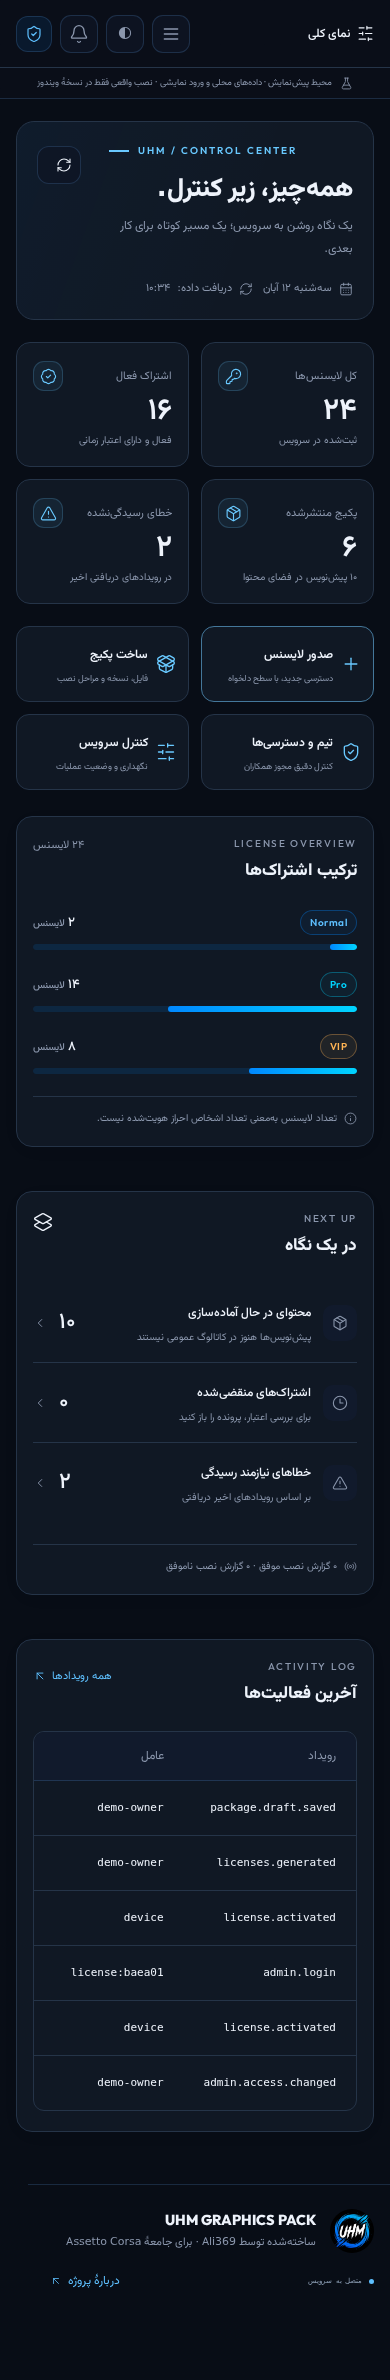
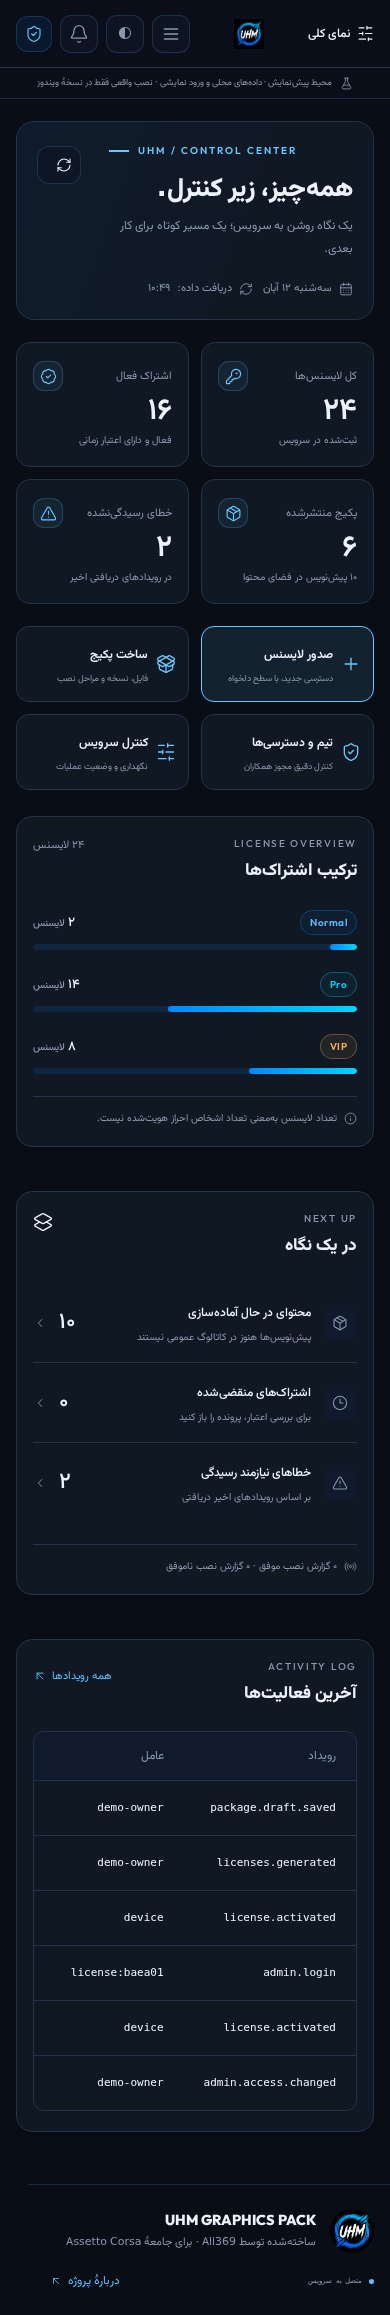
fix: preserve mobile console home link and verify static Pages routing

diff --git a/apps/web/src/main.ts b/apps/web/src/main.ts
@@ -146,7 +146,7 @@ function adminShell(nav: string[][]) {
     )
     .join(
       '',
-    )}</nav><div class="sidebar-bottom"><div class="workspace-identity">${icon('shield-check')}<div><b data-admin-role>مدیریت</b><small>دسترسی بر اساس مجوز حساب</small></div></div><button class="nav-item ${page === 'settings' ? 'active' : ''}" data-nav="settings">${icon('settings-2')}تنظیمات</button><button class="nav-item" id="switch-mode">${icon('arrow-up-right')}بازگشت به لانچر</button><div class="sidebar-version"><span>UHM PLATFORM</span><code>v0.1.0</code></div></div></aside><div class="workspace"><header class="topbar"><div class="breadcrumbs">${icon('sliders-horizontal')}<span>اتاق کنترل</span>${icon('chevron-left')}<strong>${esc(nav.find((n) => n[0] === page)?.[2] || 'تنظیمات')}</strong></div><div class="topbar-actions"><button class="icon-button mobile-menu" id="mobile-menu" aria-label="منوی بخشها" aria-expanded="false">${icon('menu')}</button><button class="icon-button" id="theme" aria-label="تغییر تم">◐</button><button class="icon-button" id="notifications" aria-label="تازههای انتشار">${icon('bell')}</button><button class="profile" id="profile" aria-label="خروج از حساب مدیریت"><span class="avatar">${icon('shield-check')}</span><span><b data-admin-role>مدیریت</b><small lang="en">UHM WORKSPACE</small></span>${icon('chevron-down')}</button></div></header>${demoStrip()}${serviceMessage ? `<div class="console-notice">${esc(serviceMessage)}</div>` : ''}<main id="content" tabindex="-1"></main>${footerMarkup()}</div></div><div id="toasts" aria-live="polite"></div>`;
+    )}</nav><div class="sidebar-bottom"><div class="workspace-identity">${icon('shield-check')}<div><b data-admin-role>مدیریت</b><small>دسترسی بر اساس مجوز حساب</small></div></div><button class="nav-item ${page === 'settings' ? 'active' : ''}" data-nav="settings">${icon('settings-2')}تنظیمات</button><button class="nav-item" id="switch-mode">${icon('arrow-up-right')}بازگشت به لانچر</button><div class="sidebar-version"><span>UHM PLATFORM</span><code>v0.1.0</code></div></div></aside><div class="workspace"><header class="topbar"><div class="breadcrumbs">${icon('sliders-horizontal')}<span>اتاق کنترل</span>${icon('chevron-left')}<strong>${esc(nav.find((n) => n[0] === page)?.[2] || 'تنظیمات')}</strong></div><div class="mobile-console-brand">${brandMarkup()}</div><div class="topbar-actions"><button class="icon-button mobile-menu" id="mobile-menu" aria-label="منوی بخشها" aria-expanded="false">${icon('menu')}</button><button class="icon-button" id="theme" aria-label="تغییر تم">◐</button><button class="icon-button" id="notifications" aria-label="تازههای انتشار">${icon('bell')}</button><button class="profile" id="profile" aria-label="خروج از حساب مدیریت"><span class="avatar">${icon('shield-check')}</span><span><b data-admin-role>مدیریت</b><small lang="en">UHM WORKSPACE</small></span>${icon('chevron-down')}</button></div></header>${demoStrip()}${serviceMessage ? `<div class="console-notice">${esc(serviceMessage)}</div>` : ''}<main id="content" tabindex="-1"></main>${footerMarkup()}</div></div><div id="toasts" aria-live="polite"></div>`;
 }
 function navigate(next: string) {
   page = next;

diff --git a/tests/pages/pages.spec.ts b/tests/pages/pages.spec.ts
@@ -52,7 +52,9 @@ test('sandbox activation and admin actions survive reload without a real backend
   await expect(page.locator('#codes')).toHaveValue(/UHM-/);
   await page.getByRole('button', { name: 'بستن', exact: true }).click();
   await page.reload();
-  await expect(page.getByRole('heading', { name: 'همهچیز، زیر کنترل.' })).toBeVisible();
+  await expect(page).toHaveURL(/\/App\/#\/admin\/licenses$/);
+  await expect(page.locator('#license-table')).toBeVisible();
+  await expect(page.getByRole('button', { name: 'تولید لایسنس', exact: true })).toBeVisible();
   await page.getByRole('button', { name: 'بازگشت به لانچر', exact: true }).click();
   await expect(page).toHaveURL(/\/App\/$/);
   await expect(page.getByRole('heading', { name: /گرافیک استو را/ })).toBeVisible();

diff --git a/apps/web/src/console-design.css b/apps/web/src/console-design.css
@@ -885,3 +885,28 @@ button:disabled {
   flex-wrap: wrap;
   min-width: 0;
 }
+.mobile-console-brand {
+  display: none;
+}
+@media (max-width: 700px) {
+  .mobile-console-brand {
+    display: block;
+  }
+  .admin-shell .mobile-console-brand .brand {
+    display: flex;
+    align-items: center;
+    padding: 0;
+    margin: 0;
+    font-size: 0;
+  }
+  .mobile-console-brand .brand img {
+    width: 30px;
+    height: 30px;
+  }
+  .mobile-console-brand small {
+    display: none;
+  }
+  .admin-shell .workspace {
+    padding-bottom: 0;
+  }
+}

diff --git a/docs/design-debugging-2026-11-03-fa.md b/docs/design-debugging-2026-11-03-fa.md
@@ -34,6 +34,7 @@
 | ناشر بدون content.write دکمه انتشار فعال نداشت — AUD-02 | عملیات validate/test/publish/archive بیرون fieldset دادههای غیرفعال قرار گرفتند. ذخیره بدون permission اصلاً نمایش داده نمیشود. تست با ورود واقعی لایسنس محلی، دکمه فعال و validate موفق را تأیید میکند. |
 | content.write بدون content.read مسیر ساخت پکیج نداشت — AUD-03 | navigation برای مجوز نوشتن باز میشود؛ فهرست قبلی همچنان پنهان میماند و توضیح صریح نشان داده میشود. مجوز read بهطور ضمنی اعطا نشد و API سرور دستنخورده است. |
 | فایلهای پنهانشده با مجوز، به اشتباه صفر نمایش داده میشدند | در جدول از عبارت «محفوظ» استفاده میشود؛ فرم فقطخواندنی نیز محدودیت اطلاعات را توضیح میدهد. |
+| لینک لوگو در header موبایل Owner وجود نداشت | هنگام تست build استاتیک پیدا شد؛ لوگوی قابل کلیک در header موبایل اضافه شد و با لینک اصلی زیر /App/ تست شد. |
 | صفحه داخلی بعد از refresh/Back از دست میرفت | routeهای hash برای صفحات مجاز اضافه شد؛ زیرمسیر /App/، مسیر قدیمی /admin و ورودی نامعتبر تست دارند. |
 | خطای موقت صفحه را به بنبست میرساند | loading قابلدسترسی، وضعیت aria-busy و دکمهٔ واقعی تلاش دوباره اضافه شد. |
 | پنجرههای modal نام مرتبط با heading نداشتند | aria-labelledby با ID یکتا، بازگشت focus و قفل scroll پسزمینه اضافه شد. |
@@ -63,6 +64,7 @@
 ### سایر تستها
 
 - **۱۹ تست مرورگر قبلی:** موفق؛ ورود، پکیج چندفایلی، تیم، خطاها، queue و رفتارهای قبلی حفظ شدند.
+- **۴ تست build استاتیک Pages/branch:** موفق؛ حفظ assets/font، فعالیت بدون backend، refresh روی صفحه انتخابشده و لینک لوگوی موبایل. انتظار قدیمیِ بازگشت به dashboard با قرارداد جدیدِ حفظ همان صفحه اصلاح شد، نه اینکه تست حذف شود.
 - **۳ تست مرورگر دسترسی سفارشی:** موفق؛ دو expected-failure قبلی AUD-02/03 به regression عادی تبدیل شدند.
 - **۱۰ سناریوی طراحی مرورگر:** موفق.
 - **۱۸۱ تست عادی unit/API/DB + چهار expected-failure بازِ ممیزی سرور:** موفق در `npm run check`؛ ۱۹ تست route تازه نیز در همین عددند.
